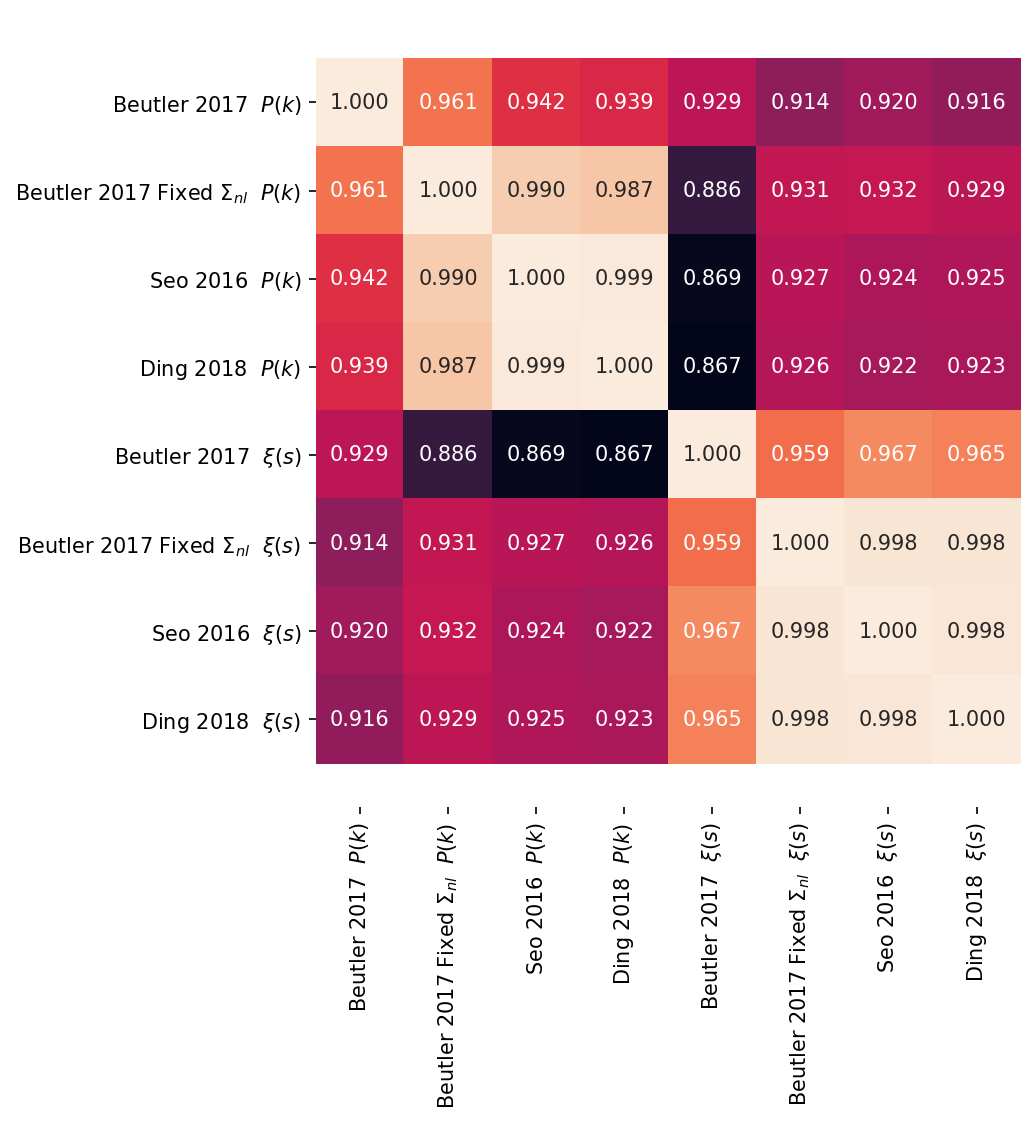
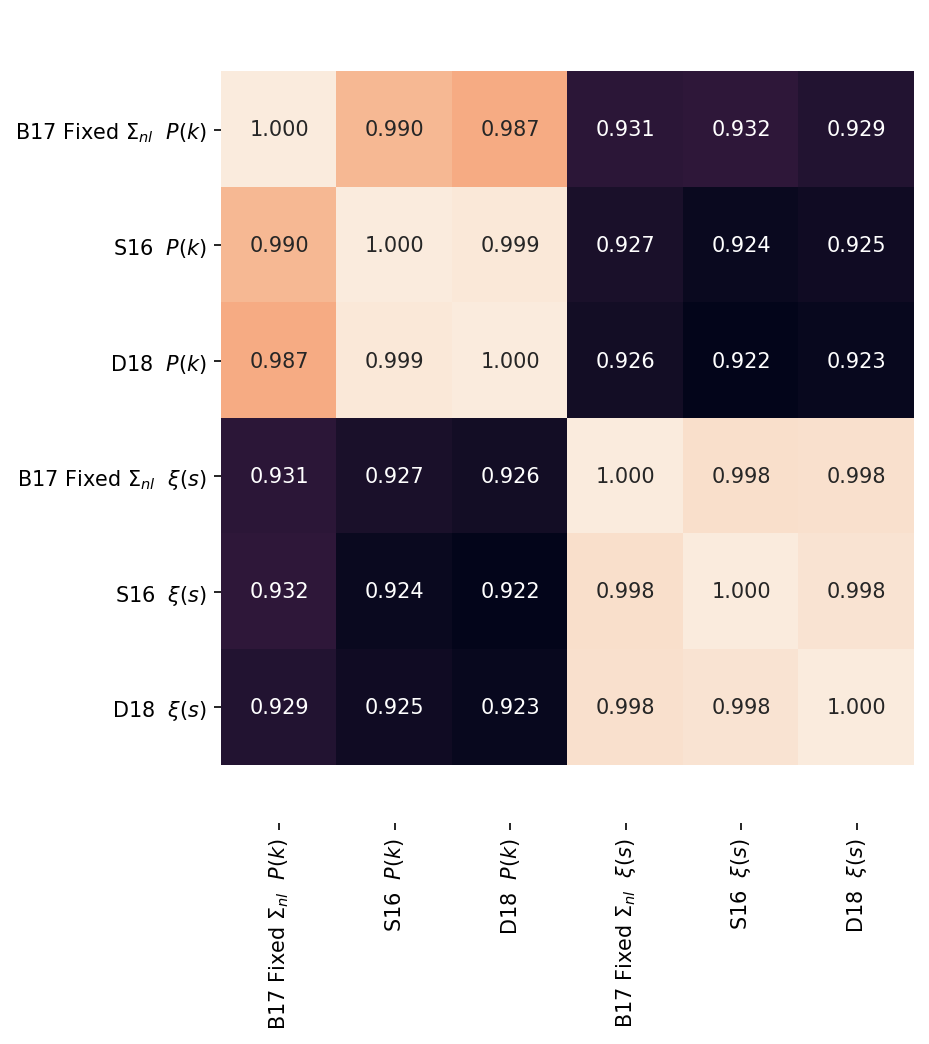
Updating consensus

diff --git a/investigations/get_consensus_measurement.py b/investigations/get_consensus_measurement.py
@@ -14,8 +14,11 @@ use_columns = [a for a in list(df_all.columns) if "Noda" not in a and "realisati
 
 df = df_all[use_columns]
 
-cols = [a for a in df.columns if "mean" in a]
-labels = [a.replace("_pk", " $P(k)$").replace("_mean", "").replace("_xi", " $\\xi(s)$").replace("Recon", "") for a in cols]
+cols = [a for a in df.columns if "mean" in a and "Beutler 2017 R" not in a and "Beutler 2017 P" not in a]
+labels = [a for a in cols]
+swaps = [("_pk", " $P(k)$"), ("_mean", ""), ("_xi", " $\\xi(s)$"), ("Recon", ""), ("Beutler 2017", "B17"), ("Ding 2018", "D18"), ("Seo 2016", "S16")]
+for a, b in swaps:
+    labels = [l.replace(a, b) for l in labels]
 means = df[cols].values
 stds = df[[a for a in df.columns if "std" in a]].values
 
@@ -42,4 +45,9 @@ print("Mean scatter: ", np.sqrt(np.diag(cov)))
 print("Consensus err: ", combined_err)
 print("ratios: ", 1.0 / np.sqrt(sigma_c * np.diag(cov)))
 
-# Answer: Yes, by between 5-10%
+# This makes no sense - how is the consensus measurement more biased than anything going into it??
+# Mean measurements:  [1.00039962 0.99850631 0.99840441 1.00052836 1.00052664 1.00028977]
+# Consensus:  1.0025964898749093
+# Mean scatter:  [0.01222109 0.01262812 0.01268712 0.0133334  0.01333228 0.01336515]
+# Consensus err:  0.012027931643257472
+# ratios:  [0.98419472 0.952472   0.94804269 0.90209063 0.90216599 0.89994762]
